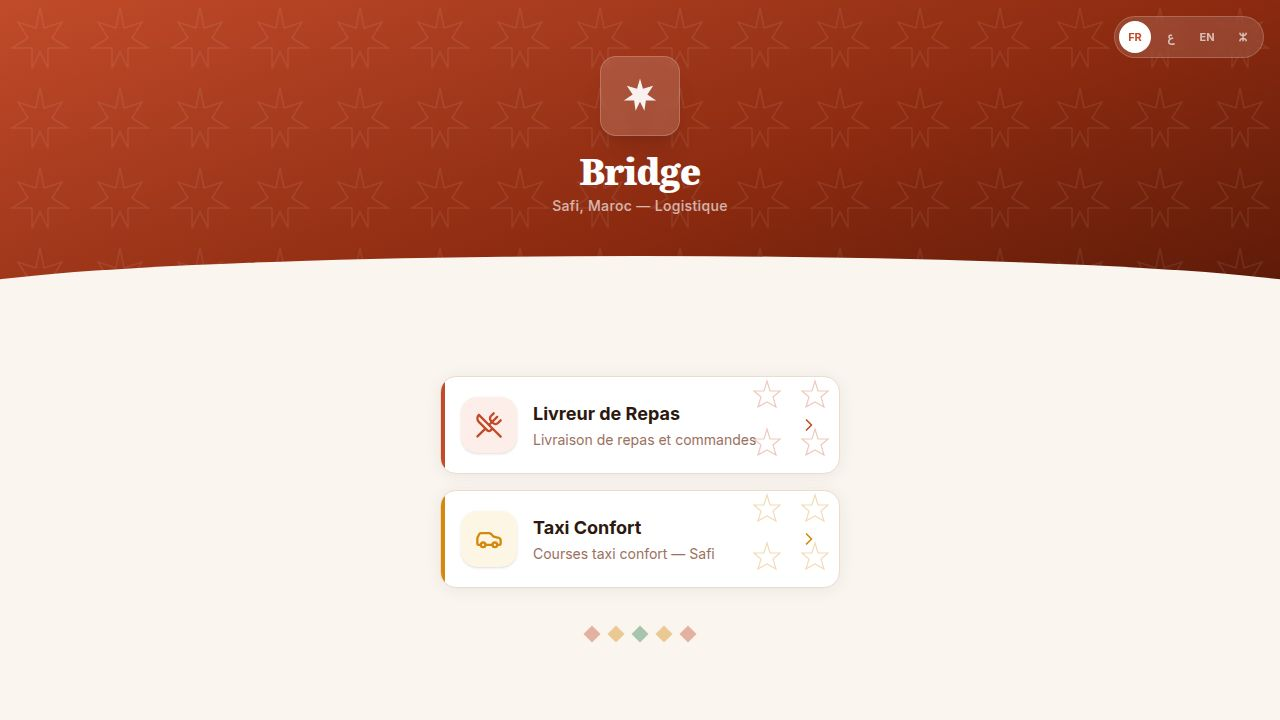
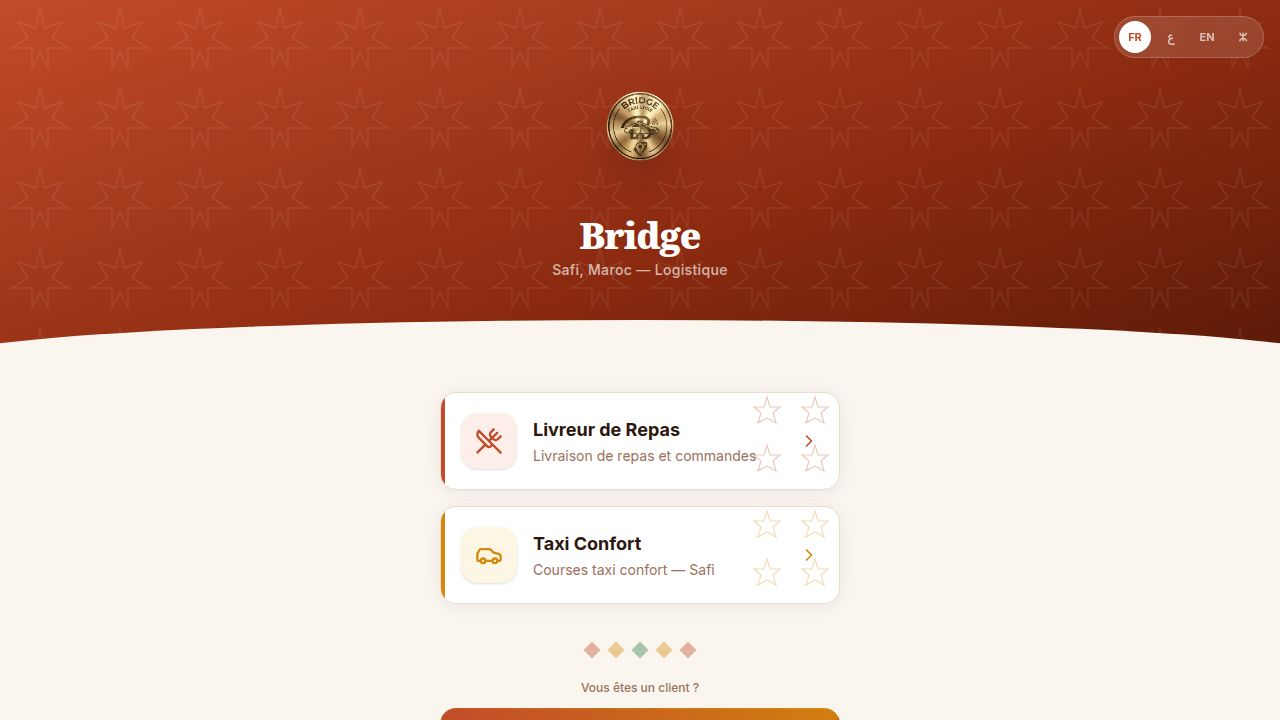
Add live GPS tracking map and timer to the delivery status page
Integrates Leaflet.js to display a real-time map showing the deliverer's location, destination, route, and elapsed time since pickup on the order tracking page.

Replit-Commit-Author: Agent
Replit-Commit-Session-Id: 7bdda756-45c5-4c37-a27f-79b721aa4ada
Replit-Commit-Checkpoint-Type: full_checkpoint
Replit-Commit-Event-Id: e23fb834-6036-4669-b51a-5375e669e941
Replit-Commit-Screenshot-Url: https://storage.googleapis.com/screenshot-production-us-central1/406ae05e-3483-4224-927f-5b1b34d56fb4/7bdda756-45c5-4c37-a27f-79b721aa4ada/9aI7W5Q
Replit-Helium-Checkpoint-Created: true

diff --git a/artifacts/driver-app/src/components/TrackingMap.tsx b/artifacts/driver-app/src/components/TrackingMap.tsx
@@ -1,0 +1,186 @@
+import { useEffect, useRef } from "react";
+import L from "leaflet";
+import "leaflet/dist/leaflet.css";
+
+const TC = "#C14B2A";
+const GREEN = "#2A7A48";
+
+interface TrackingMapProps {
+  delivererLat: number;
+  delivererLng: number;
+  delivererName: string;
+  delivererPhotoUrl?: string | null;
+  destinationLat?: number | null;
+  destinationLng?: number | null;
+  destinationLabel?: string;
+}
+
+function makeDelivererIcon(photoUrl?: string | null, name?: string): L.DivIcon {
+  const initial = (name?.charAt(0) ?? "?").toUpperCase();
+  const inner = photoUrl
+    ? `<img src="${photoUrl}" style="width:100%;height:100%;object-fit:cover;border-radius:50%" />`
+    : `<div style="width:100%;height:100%;display:flex;align-items:center;justify-content:center;color:white;font-weight:800;font-size:18px;background:${TC};border-radius:50%">${initial}</div>`;
+
+  return L.divIcon({
+    className: "deliverer-marker",
+    html: `
+      <div style="position:relative;width:48px;height:48px">
+        <div style="position:absolute;inset:-6px;border-radius:50%;background:${TC};opacity:0.25;animation:pulse 2s infinite"></div>
+        <div style="position:relative;width:48px;height:48px;border-radius:50%;border:3px solid white;box-shadow:0 4px 12px rgba(0,0,0,0.3);overflow:hidden;background:white">
+          ${inner}
+        </div>
+      </div>
+      <style>
+        @keyframes pulse {
+          0% { transform: scale(1); opacity: 0.4 }
+          70% { transform: scale(1.6); opacity: 0 }
+          100% { transform: scale(1.6); opacity: 0 }
+        }
+      </style>
+    `,
+    iconSize: [48, 48],
+    iconAnchor: [24, 24],
+  });
+}
+
+const destinationIcon = L.divIcon({
+  className: "destination-marker",
+  html: `
+    <div style="width:36px;height:36px;border-radius:50% 50% 50% 0;background:${GREEN};transform:rotate(-45deg);border:3px solid white;box-shadow:0 3px 10px rgba(0,0,0,0.3);display:flex;align-items:center;justify-content:center">
+      <div style="transform:rotate(45deg);color:white;font-size:18px">🏠</div>
+    </div>
+  `,
+  iconSize: [36, 36],
+  iconAnchor: [18, 36],
+});
+
+export function TrackingMap({
+  delivererLat,
+  delivererLng,
+  delivererName,
+  delivererPhotoUrl,
+  destinationLat,
+  destinationLng,
+}: TrackingMapProps) {
+  const containerRef = useRef<HTMLDivElement>(null);
+  const mapRef = useRef<L.Map | null>(null);
+  const delivererMarkerRef = useRef<L.Marker | null>(null);
+  const destMarkerRef = useRef<L.Marker | null>(null);
+  const lineRef = useRef<L.Polyline | null>(null);
+  const trailRef = useRef<L.Polyline | null>(null);
+  const trailPointsRef = useRef<L.LatLng[]>([]);
+
+  useEffect(() => {
+    if (!containerRef.current || mapRef.current) return;
+
+    const map = L.map(containerRef.current, {
+      center: [delivererLat, delivererLng],
+      zoom: 15,
+      zoomControl: false,
+      attributionControl: false,
+    });
+
+    L.tileLayer("https://{s}.tile.openstreetmap.org/{z}/{x}/{y}.png", {
+      maxZoom: 19,
+    }).addTo(map);
+
+    L.control.zoom({ position: "topright" }).addTo(map);
+
+    mapRef.current = map;
+
+    return () => {
+      map.remove();
+      mapRef.current = null;
+      delivererMarkerRef.current = null;
+      destMarkerRef.current = null;
+      lineRef.current = null;
+      trailRef.current = null;
+      trailPointsRef.current = [];
+    };
+    // eslint-disable-next-line react-hooks/exhaustive-deps
+  }, []);
+
+  // Update deliverer marker
+  useEffect(() => {
+    const map = mapRef.current;
+    if (!map) return;
+
+    const latlng = L.latLng(delivererLat, delivererLng);
+    const icon = makeDelivererIcon(delivererPhotoUrl, delivererName);
+
+    if (!delivererMarkerRef.current) {
+      delivererMarkerRef.current = L.marker(latlng, { icon }).addTo(map);
+    } else {
+      delivererMarkerRef.current.setLatLng(latlng);
+      delivererMarkerRef.current.setIcon(icon);
+    }
+
+    // Trail history (last 30 positions)
+    const last = trailPointsRef.current[trailPointsRef.current.length - 1];
+    if (!last || last.lat !== latlng.lat || last.lng !== latlng.lng) {
+      trailPointsRef.current.push(latlng);
+      if (trailPointsRef.current.length > 30) trailPointsRef.current.shift();
+
+      if (trailRef.current) trailRef.current.remove();
+      if (trailPointsRef.current.length >= 2) {
+        trailRef.current = L.polyline(trailPointsRef.current, {
+          color: TC,
+          weight: 3,
+          opacity: 0.5,
+          dashArray: "6 6",
+        }).addTo(map);
+      }
+    }
+  }, [delivererLat, delivererLng, delivererPhotoUrl, delivererName]);
+
+  // Update destination marker + line
+  useEffect(() => {
+    const map = mapRef.current;
+    if (!map) return;
+
+    if (destinationLat != null && destinationLng != null) {
+      const dest = L.latLng(destinationLat, destinationLng);
+      if (!destMarkerRef.current) {
+        destMarkerRef.current = L.marker(dest, { icon: destinationIcon }).addTo(map);
+      } else {
+        destMarkerRef.current.setLatLng(dest);
+      }
+
+      // Line from deliverer to destination
+      const line = [L.latLng(delivererLat, delivererLng), dest];
+      if (lineRef.current) lineRef.current.remove();
+      lineRef.current = L.polyline(line, {
+        color: GREEN,
+        weight: 4,
+        opacity: 0.7,
+      }).addTo(map);
+
+      // Fit to show both
+      map.fitBounds(L.latLngBounds(line), { padding: [60, 60], maxZoom: 16 });
+    } else {
+      map.setView([delivererLat, delivererLng], 15);
+    }
+  }, [delivererLat, delivererLng, destinationLat, destinationLng]);
+
+  return (
+    <div
+      ref={containerRef}
+      className="w-full h-72 rounded-2xl overflow-hidden border"
+      style={{ borderColor: "#E8DDD0", zIndex: 0 }}
+    />
+  );
+}
+
+// Geocode an address to lat/lng using Nominatim (OpenStreetMap, free, no key)
+export async function geocodeAddress(address: string): Promise<{ lat: number; lng: number } | null> {
+  try {
+    const url = `https://nominatim.openstreetmap.org/search?format=json&q=${encodeURIComponent(address)}&limit=1`;
+    const res = await fetch(url, { headers: { Accept: "application/json" } });
+    if (!res.ok) return null;
+    const data = await res.json();
+    if (!Array.isArray(data) || data.length === 0) return null;
+    return { lat: parseFloat(data[0].lat), lng: parseFloat(data[0].lon) };
+  } catch {
+    return null;
+  }
+}

diff --git a/artifacts/driver-app/src/pages/suivi.tsx b/artifacts/driver-app/src/pages/suivi.tsx
@@ -2,8 +2,9 @@ import { useParams } from "wouter";
 import { useEffect, useState } from "react";
 import {
   MapPin, Phone, Star, Bike, CheckCircle2, Clock,
-  Package, Loader2, AlertCircle, Navigation,
+  Package, Loader2, AlertCircle, Navigation, Timer,
 } from "lucide-react";
+import { TrackingMap, geocodeAddress } from "@/components/TrackingMap";
 
 const TC = "#C14B2A";
 const GREEN = "#2A7A48";
@@ -34,6 +35,7 @@ interface TrackingData {
   deliveryAddress: string;
   notes: string | null;
   estimatedDeliveryTime: string | null;
+  pickedUpAt: string | null;
   createdAt: string;
   deliverer: {
     id: number;
@@ -42,7 +44,19 @@ interface TrackingData {
     vehicleType: string;
     rating: number;
     photoUrl?: string | null;
+    lastLat?: number | null;
+    lastLng?: number | null;
   } | null;
+}
+
+function formatElapsed(sinceIso: string | null): string {
+  if (!sinceIso) return "0:00";
+  const ms = Date.now() - new Date(sinceIso).getTime();
+  if (ms < 0) return "0:00";
+  const totalSec = Math.floor(ms / 1000);
+  const m = Math.floor(totalSec / 60);
+  const s = totalSec % 60;
+  return `${m}:${s.toString().padStart(2, "0")}`;
 }
 
 const BASE = import.meta.env.BASE_URL.replace(/\/$/, "");
@@ -54,6 +68,8 @@ export default function SuiviPage() {
   const [data, setData] = useState<TrackingData | null>(null);
   const [error, setError] = useState<string | null>(null);
   const [loading, setLoading] = useState(true);
+  const [destCoords, setDestCoords] = useState<{ lat: number; lng: number } | null>(null);
+  const [, setTick] = useState(0);
 
   useEffect(() => {
     if (!trackingNumber) return;
@@ -73,12 +89,30 @@ export default function SuiviPage() {
     }
 
     fetchTracking();
-    const interval = setInterval(fetchTracking, 15000);
+    // Faster refresh once a livreur is on the way
+    const interval = setInterval(fetchTracking, 10000);
     return () => {
       cancelled = true;
       clearInterval(interval);
     };
   }, [trackingNumber]);
+
+  // Tick every second so the elapsed timer updates
+  useEffect(() => {
+    if (data?.status !== "in_progress" || !data?.pickedUpAt) return;
+    const id = setInterval(() => setTick(t => t + 1), 1000);
+    return () => clearInterval(id);
+  }, [data?.status, data?.pickedUpAt]);
+
+  // Geocode destination address once
+  useEffect(() => {
+    if (!data?.deliveryAddress || destCoords) return;
+    let cancelled = false;
+    geocodeAddress(data.deliveryAddress).then(coords => {
+      if (!cancelled && coords) setDestCoords(coords);
+    });
+    return () => { cancelled = true; };
+  }, [data?.deliveryAddress, destCoords]);
 
   if (loading) {
     return (
@@ -177,6 +211,41 @@ export default function SuiviPage() {
       </div>
 
       <div className="px-4 py-5 flex flex-col gap-4" style={{ maxWidth: 480, margin: "0 auto" }}>
+
+        {/* ─── Live tracking map (only when livreur is en route) ─── */}
+        {data.status === "in_progress" && data.deliverer?.lastLat != null && data.deliverer?.lastLng != null && (
+          <div className="rounded-3xl border overflow-hidden shadow-sm" style={{ background: "white", borderColor: BORDER }}>
+            <div className="px-4 py-3 flex items-center justify-between border-b" style={{ borderColor: BORDER, background: "#FDEEE9" }}>
+              <div className="flex items-center gap-2">
+                <span className="relative flex h-2.5 w-2.5">
+                  <span className="animate-ping absolute inline-flex h-full w-full rounded-full opacity-75" style={{ background: TC }} />
+                  <span className="relative inline-flex rounded-full h-2.5 w-2.5" style={{ background: TC }} />
+                </span>
+                <p className="text-sm font-bold" style={{ color: TC }}>Livreur en route — direct</p>
+              </div>
+              {data.pickedUpAt && (
+                <div className="flex items-center gap-1.5 px-2.5 py-1 rounded-full" style={{ background: "white", border: `1px solid ${TC}30` }}>
+                  <Timer className="h-3.5 w-3.5" style={{ color: TC }} />
+                  <span className="text-xs font-bold tabular-nums" style={{ color: TC }}>
+                    {formatElapsed(data.pickedUpAt)}
+                  </span>
+                </div>
+              )}
+            </div>
+            <TrackingMap
+              delivererLat={data.deliverer.lastLat}
+              delivererLng={data.deliverer.lastLng}
+              delivererName={data.deliverer.name}
+              delivererPhotoUrl={data.deliverer.photoUrl}
+              destinationLat={destCoords?.lat ?? null}
+              destinationLng={destCoords?.lng ?? null}
+            />
+            <div className="px-4 py-2.5 text-[11px] flex items-center justify-center gap-1.5" style={{ color: BROWN_LIGHT }}>
+              <Navigation className="h-3 w-3" />
+              <span>Position rafraîchie automatiquement toutes les 10 secondes</span>
+            </div>
+          </div>
+        )}
 
         {/* Deliverer card */}
         {data.deliverer ? (